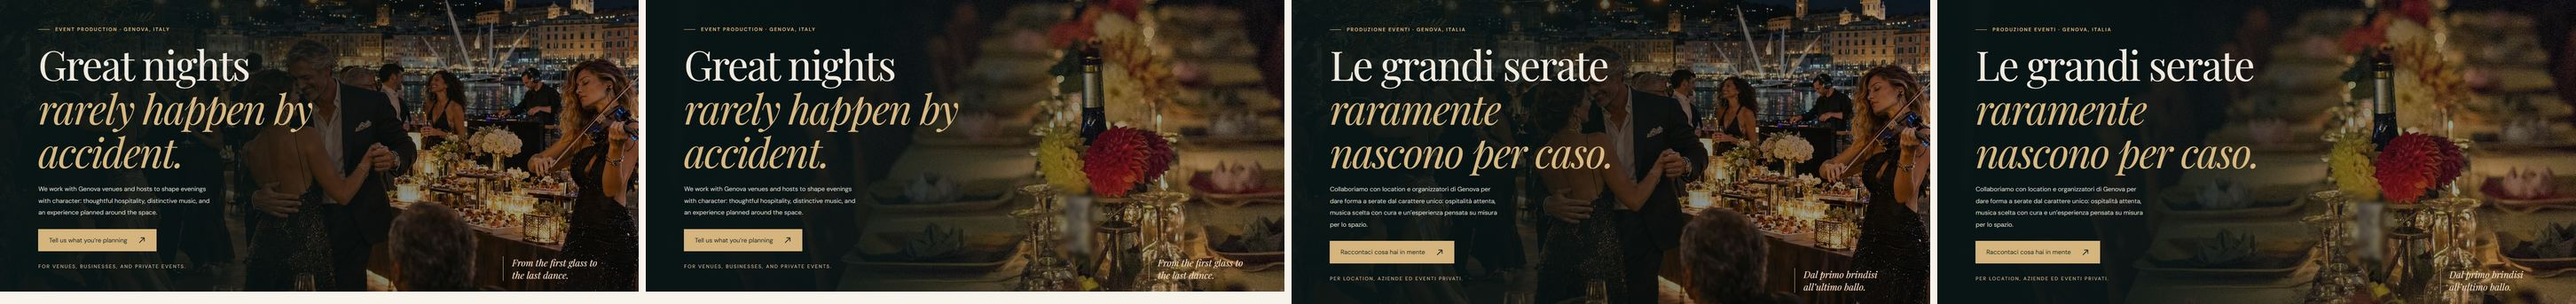
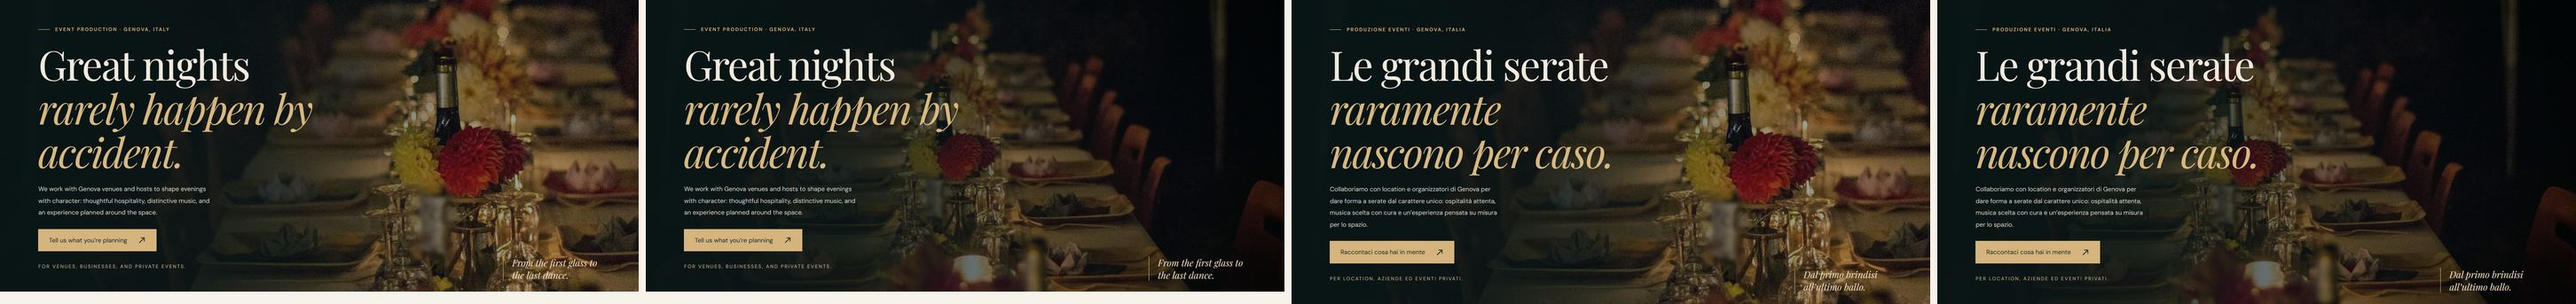
Restore the full, uncropped hero frame from the comparison mockup (#100) (#124)
The owner found the left-two-thirds desktop crop from #122 too zoomed in and
soft, on desktop and on phones in landscape. Desktop/landscape files now use
the full frame from the 4974 px original, with a 3px median grain reduction,
and a new 2400w file serves large and high-density screens. Phone portrait
files keep their crop.

diff --git a/dist/it/index.html b/dist/it/index.html
@@ -114,7 +114,7 @@ main:focus{outline:none}
 @media(max-width:850px){.offer-grid{grid-template-columns:repeat(2,minmax(0,1fr));gap:24px}.faq-grid{grid-template-columns:1fr}}
 @media(max-width:540px){.offer-faq{padding-top:55px;padding-bottom:55px}.offer-grid{grid-template-columns:1fr;gap:20px}.offer-section-title,.faq-heading{font-size:26px}.faq-block{margin-top:42px;padding-top:28px}}
 </style><link rel="stylesheet" href="../assets/legibility.css"><link rel="stylesheet" href="/assets/footer.css"><link rel="stylesheet" href="/assets/founder.css"><link rel="stylesheet" href="/assets/collateral.css"><link rel="stylesheet" href="/assets/mobile-hero.css"><link rel="stylesheet" href="/assets/layout-rhythm.css"></head><body><a class="skip-link" href="#main-content">Vai al contenuto principale</a><header><a class="logo" href="#" aria-label="Homepage YMG Events"><i>.</i>ymg events<small>YOUR MAGIC GENIE GROUP</small></a><nav class="primary-nav" id="primary-navigation" aria-label="Navigazione principale"><a href="#approach">Il nostro approccio</a><a href="#concepts">Format degli eventi</a><a href="#partners">Per la tua attività</a><a id="language-switch" class="language-switch" href="/" hreflang="en" lang="en" aria-label="Leggi il sito in inglese">EN</a></nav><div class="header-actions"><button class="menu-toggle" type="button" aria-expanded="false" aria-controls="primary-navigation" aria-label="Apri il menu di navigazione"><span aria-hidden="true">☰</span><span class="menu-label">Menu</span></button><a class="btn header-cta" href="#inquire">Contatti <svg class="arrow ui-arrow" xmlns="http://www.w3.org/2000/svg" width="18" height="18" viewBox="0 0 16 16" aria-hidden="true" focusable="false"><path d="M3.25 12.75L12.75 3.25M6 3.25h6.75V10" fill="none" stroke="currentColor" stroke-width="1.5" stroke-linecap="round" stroke-linejoin="round"/></svg></a></div></header>
-<main id="main-content" tabindex="-1"><div class="hero"><div class="hero-copy"><div class="eyebrow">PRODUZIONE EVENTI · GENOVA, ITALIA</div><h1>Le grandi serate<br><em>raramente nascono per caso.</em></h1><p>Collaboriamo con location e organizzatori di Genova per dare forma a serate dal carattere unico: ospitalità attenta, musica scelta con cura e un’esperienza pensata su misura per lo spazio.</p><div class="hero-actions"><a class="btn primary" href="#inquire">Raccontaci cosa hai in mente <svg class="arrow ui-arrow" xmlns="http://www.w3.org/2000/svg" width="18" height="18" viewBox="0 0 16 16" aria-hidden="true" focusable="false"><path d="M3.25 12.75L12.75 3.25M6 3.25h6.75V10" fill="none" stroke="currentColor" stroke-width="1.5" stroke-linecap="round" stroke-linejoin="round"/></svg></a></div><div class="geo">Per location, aziende ed eventi privati.</div></div><div class="hero-atmosphere"><picture><source media="(max-width: 540px)" sizes="100vw" srcset="/assets/event-hero-mobile-480.webp 480w, /assets/event-hero-mobile-780.webp 780w"><img src="/assets/event-hero-1440.webp" srcset="/assets/event-hero-480.webp 480w, /assets/event-hero-960.webp 960w, /assets/event-hero-1440.webp 1440w" sizes="100vw" width="1440" height="960" alt="Foto illustrativa di una lunga tavola apparecchiata a lume di candela, con dalie, calici e tovaglioli piegati." loading="eager" fetchpriority="high" decoding="async"></picture><div class="photo-note">Dal primo brindisi all’ultimo ballo.</div></div></div>
+<main id="main-content" tabindex="-1"><div class="hero"><div class="hero-copy"><div class="eyebrow">PRODUZIONE EVENTI · GENOVA, ITALIA</div><h1>Le grandi serate<br><em>raramente nascono per caso.</em></h1><p>Collaboriamo con location e organizzatori di Genova per dare forma a serate dal carattere unico: ospitalità attenta, musica scelta con cura e un’esperienza pensata su misura per lo spazio.</p><div class="hero-actions"><a class="btn primary" href="#inquire">Raccontaci cosa hai in mente <svg class="arrow ui-arrow" xmlns="http://www.w3.org/2000/svg" width="18" height="18" viewBox="0 0 16 16" aria-hidden="true" focusable="false"><path d="M3.25 12.75L12.75 3.25M6 3.25h6.75V10" fill="none" stroke="currentColor" stroke-width="1.5" stroke-linecap="round" stroke-linejoin="round"/></svg></a></div><div class="geo">Per location, aziende ed eventi privati.</div></div><div class="hero-atmosphere"><picture><source media="(max-width: 540px)" sizes="100vw" srcset="/assets/event-hero-mobile-480.webp 480w, /assets/event-hero-mobile-780.webp 780w"><img src="/assets/event-hero-1440.webp" srcset="/assets/event-hero-480.webp 480w, /assets/event-hero-960.webp 960w, /assets/event-hero-1440.webp 1440w, /assets/event-hero-2400.webp 2400w" sizes="100vw" width="1440" height="960" alt="Foto illustrativa di una lunga tavola apparecchiata a lume di candela, con dalie, calici e tovaglioli piegati." loading="eager" fetchpriority="high" decoding="async"></picture><div class="photo-note">Dal primo brindisi all’ultimo ballo.</div></div></div>
 <div class="band"><span>L’arte di vivere una serata speciale.</span><div>Serate in terrazza</div><div>Musica dal vivo e DJ set</div><div>Cena e ballo</div></div>
 <section class="intro" id="approach" tabindex="-1"><div><div class="eyebrow">Una serata che lascia il segno</div><h2>Un’accoglienza impeccabile.<br><em>E tutt’altro che sottotono.</em></h2></div><div><p>YMG Events si occupa di organizzazione e produzione di eventi: location, servizio, musica e accoglienza degli ospiti riuniti in un’unica esperienza. Costruiamo il format attorno alla tua idea.</p></div></section>
 <section class="concepts" id="concepts" tabindex="-1">

diff --git a/dist/index.html b/dist/index.html
@@ -114,7 +114,7 @@ main:focus{outline:none}
 @media(max-width:850px){.offer-grid{grid-template-columns:repeat(2,minmax(0,1fr));gap:24px}.faq-grid{grid-template-columns:1fr}}
 @media(max-width:540px){.offer-faq{padding-top:55px;padding-bottom:55px}.offer-grid{grid-template-columns:1fr;gap:20px}.offer-section-title,.faq-heading{font-size:26px}.faq-block{margin-top:42px;padding-top:28px}}
 </style><link rel="stylesheet" href="assets/legibility.css"><link rel="stylesheet" href="/assets/footer.css"><link rel="stylesheet" href="/assets/founder.css"><link rel="stylesheet" href="/assets/collateral.css"><link rel="stylesheet" href="/assets/mobile-hero.css"><link rel="stylesheet" href="/assets/layout-rhythm.css"></head><body><a class="skip-link" href="#main-content">Skip to main content</a><header><a class="logo" href="#" aria-label="YMG Events home"><i>.</i>ymg events<small>YOUR MAGIC GENIE GROUP</small></a><nav class="primary-nav" id="primary-navigation" aria-label="Main navigation"><a href="#approach">Our approach</a><a href="#concepts">Event concepts</a><a href="#partners">For your business</a><a id="language-switch" class="language-switch" href="/it/" hreflang="it" lang="it" aria-label="Read this site in Italian">IT</a></nav><div class="header-actions"><button class="menu-toggle" type="button" aria-expanded="false" aria-controls="primary-navigation" aria-label="Open navigation menu"><span aria-hidden="true">☰</span><span class="menu-label">Menu</span></button><a class="btn header-cta" href="#inquire">Inquire <svg class="arrow ui-arrow" xmlns="http://www.w3.org/2000/svg" width="18" height="18" viewBox="0 0 16 16" aria-hidden="true" focusable="false"><path d="M3.25 12.75L12.75 3.25M6 3.25h6.75V10" fill="none" stroke="currentColor" stroke-width="1.5" stroke-linecap="round" stroke-linejoin="round"/></svg></a></div></header>
-<main id="main-content" tabindex="-1"><div class="hero"><div class="hero-copy"><div class="eyebrow">EVENT PRODUCTION · GENOVA, ITALY</div><h1>Great nights<br><em>rarely happen by accident.</em></h1><p>We work with Genova venues and hosts to shape evenings with character: thoughtful hospitality, distinctive music, and an experience planned around the space.</p><div class="hero-actions"><a class="btn primary" href="#inquire">Tell us what you’re planning <svg class="arrow ui-arrow" xmlns="http://www.w3.org/2000/svg" width="18" height="18" viewBox="0 0 16 16" aria-hidden="true" focusable="false"><path d="M3.25 12.75L12.75 3.25M6 3.25h6.75V10" fill="none" stroke="currentColor" stroke-width="1.5" stroke-linecap="round" stroke-linejoin="round"/></svg></a></div><div class="geo">For venues, businesses, and private events.</div></div><div class="hero-atmosphere"><picture><source media="(max-width: 540px)" sizes="100vw" srcset="/assets/event-hero-mobile-480.webp 480w, /assets/event-hero-mobile-780.webp 780w"><img src="/assets/event-hero-1440.webp" srcset="/assets/event-hero-480.webp 480w, /assets/event-hero-960.webp 960w, /assets/event-hero-1440.webp 1440w" sizes="100vw" width="1440" height="960" alt="Illustrative photo of a long candlelit dinner table set with dahlias, glasses and folded napkins." loading="eager" fetchpriority="high" decoding="async"></picture><div class="photo-note">From the first glass to the last dance.</div></div></div>
+<main id="main-content" tabindex="-1"><div class="hero"><div class="hero-copy"><div class="eyebrow">EVENT PRODUCTION · GENOVA, ITALY</div><h1>Great nights<br><em>rarely happen by accident.</em></h1><p>We work with Genova venues and hosts to shape evenings with character: thoughtful hospitality, distinctive music, and an experience planned around the space.</p><div class="hero-actions"><a class="btn primary" href="#inquire">Tell us what you’re planning <svg class="arrow ui-arrow" xmlns="http://www.w3.org/2000/svg" width="18" height="18" viewBox="0 0 16 16" aria-hidden="true" focusable="false"><path d="M3.25 12.75L12.75 3.25M6 3.25h6.75V10" fill="none" stroke="currentColor" stroke-width="1.5" stroke-linecap="round" stroke-linejoin="round"/></svg></a></div><div class="geo">For venues, businesses, and private events.</div></div><div class="hero-atmosphere"><picture><source media="(max-width: 540px)" sizes="100vw" srcset="/assets/event-hero-mobile-480.webp 480w, /assets/event-hero-mobile-780.webp 780w"><img src="/assets/event-hero-1440.webp" srcset="/assets/event-hero-480.webp 480w, /assets/event-hero-960.webp 960w, /assets/event-hero-1440.webp 1440w, /assets/event-hero-2400.webp 2400w" sizes="100vw" width="1440" height="960" alt="Illustrative photo of a long candlelit dinner table set with dahlias, glasses and folded napkins." loading="eager" fetchpriority="high" decoding="async"></picture><div class="photo-note">From the first glass to the last dance.</div></div></div>
 <div class="band"><span>The art of a better night out.</span><div>Rooftop soirées</div><div>Live music & DJs</div><div>Dining & dancing</div></div>
 <section class="intro" id="approach" tabindex="-1"><div><div class="eyebrow">An evening with a little more to it</div><h2>Beautifully hosted.<br><em>Anything but quiet.</em></h2></div><div><p>YMG Events specializes in event management and coordination; bringing the setting, service, music, and guest accomodation together into one unified experience. We can craft the format to your vision.</p></div></section>
 <section class="concepts" id="concepts" tabindex="-1">

diff --git a/docs/ASSET-PROVENANCE.md b/docs/ASSET-PROVENANCE.md
@@ -16,11 +16,11 @@ The owner chose option B, "The long candlelit table", from a comparison of six r
 
 **Truthfulness:** this is a stock photograph, not a YMG event, venue, client or partner, and not a Genova location. The English and Italian alt text starts "Illustrative photo of" / "Foto illustrativa di" and describes only what is in the frame. The wine bottle's label is softened with a feathered blur so no brand is legible. No other retouching was applied.
 
-**Delivery:** `tools/build-hero-photo.mjs` rebuilds every file from a 3000 × 2000 export of the original, with a light saturation balance (0.95) and the label blur. Desktop files (480, 960, 1440 px) use a 3:2 crop of the left two thirds of the frame, so the table sits right of the copy and the dark chairs sit behind it. Phone files (480, 780 px) use a tighter 3:2 crop centered on the table, so the table fills the narrow portrait hero. File names, `srcset`, sizes and loading priority are unchanged.
+**Delivery:** `tools/build-hero-photo.mjs` rebuilds every file from the full-size 4974 × 3316 original, with a light saturation balance (0.95) and the label blur. Desktop and landscape files (480, 960, 1440 and 2400 px) keep the **full, uncropped frame**, as in the owner-approved comparison mockup, and get a 3px median grain reduction that keeps them sharp and small. The first release (PR #122) cropped them to the left two thirds; the owner rejected that on 20 November 2026 because the zoom made the photo look soft, including on phones in landscape. Phone portrait files (480, 780 px) use a tighter 3:2 crop centered on the table. The 2400 px file serves large and high-density screens; `srcset`, `sizes` and loading priority are otherwise unchanged.
 
 **Phone overlay:** at the owner's request the phone overlay (max-width 540px, in `dist/assets/mobile-hero.css`) is 8 points lighter, from 0.94 → 0.65 to 0.86 → 0.57, so the photo shows through. Tablet and desktop overlays are unchanged.
 
-**Rollback:** revert the #100 commit. It restores the five rooftop WebP files, the alt text and the phone overlay in one step.
+**Rollback:** to return to the uncropped-zoom release, revert the full-frame fix commit. To return to the rooftop hero, revert both #100 commits (PR #122 and the full-frame fix); that restores the five rooftop WebP files, the alt text and the phone overlay, and removes the 2400 px file.
 
 ## Previous hero (11 November 2026)
 
